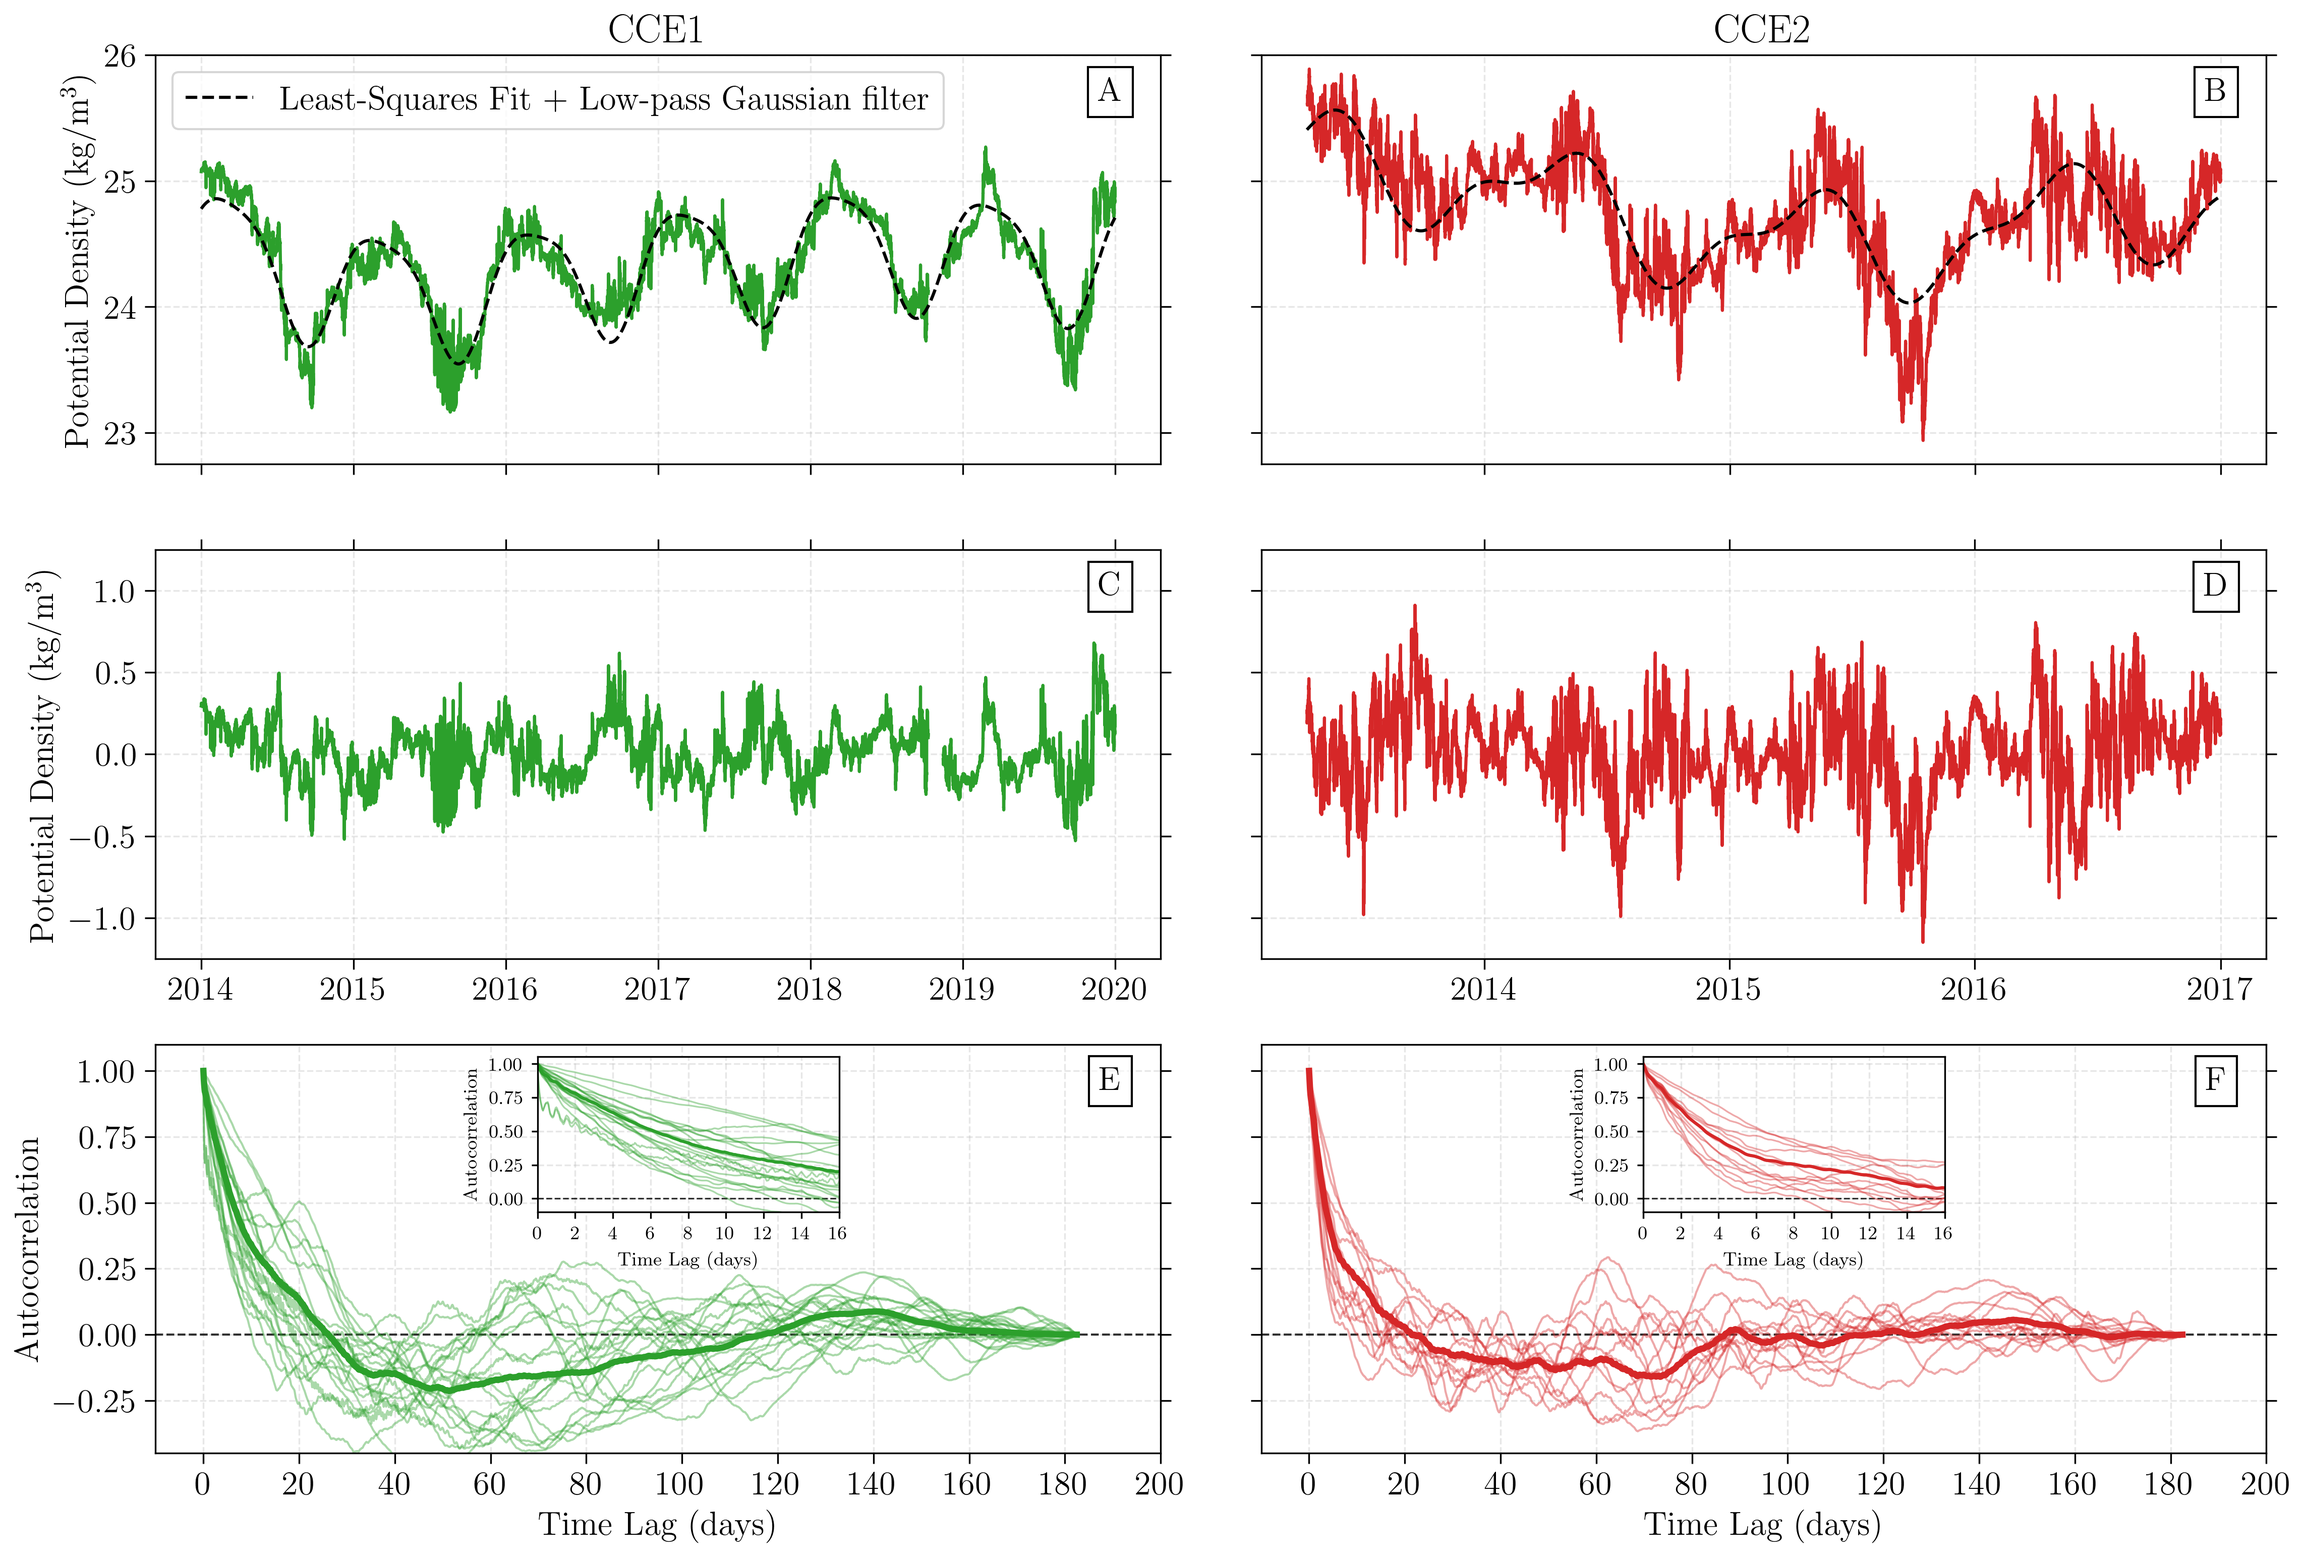
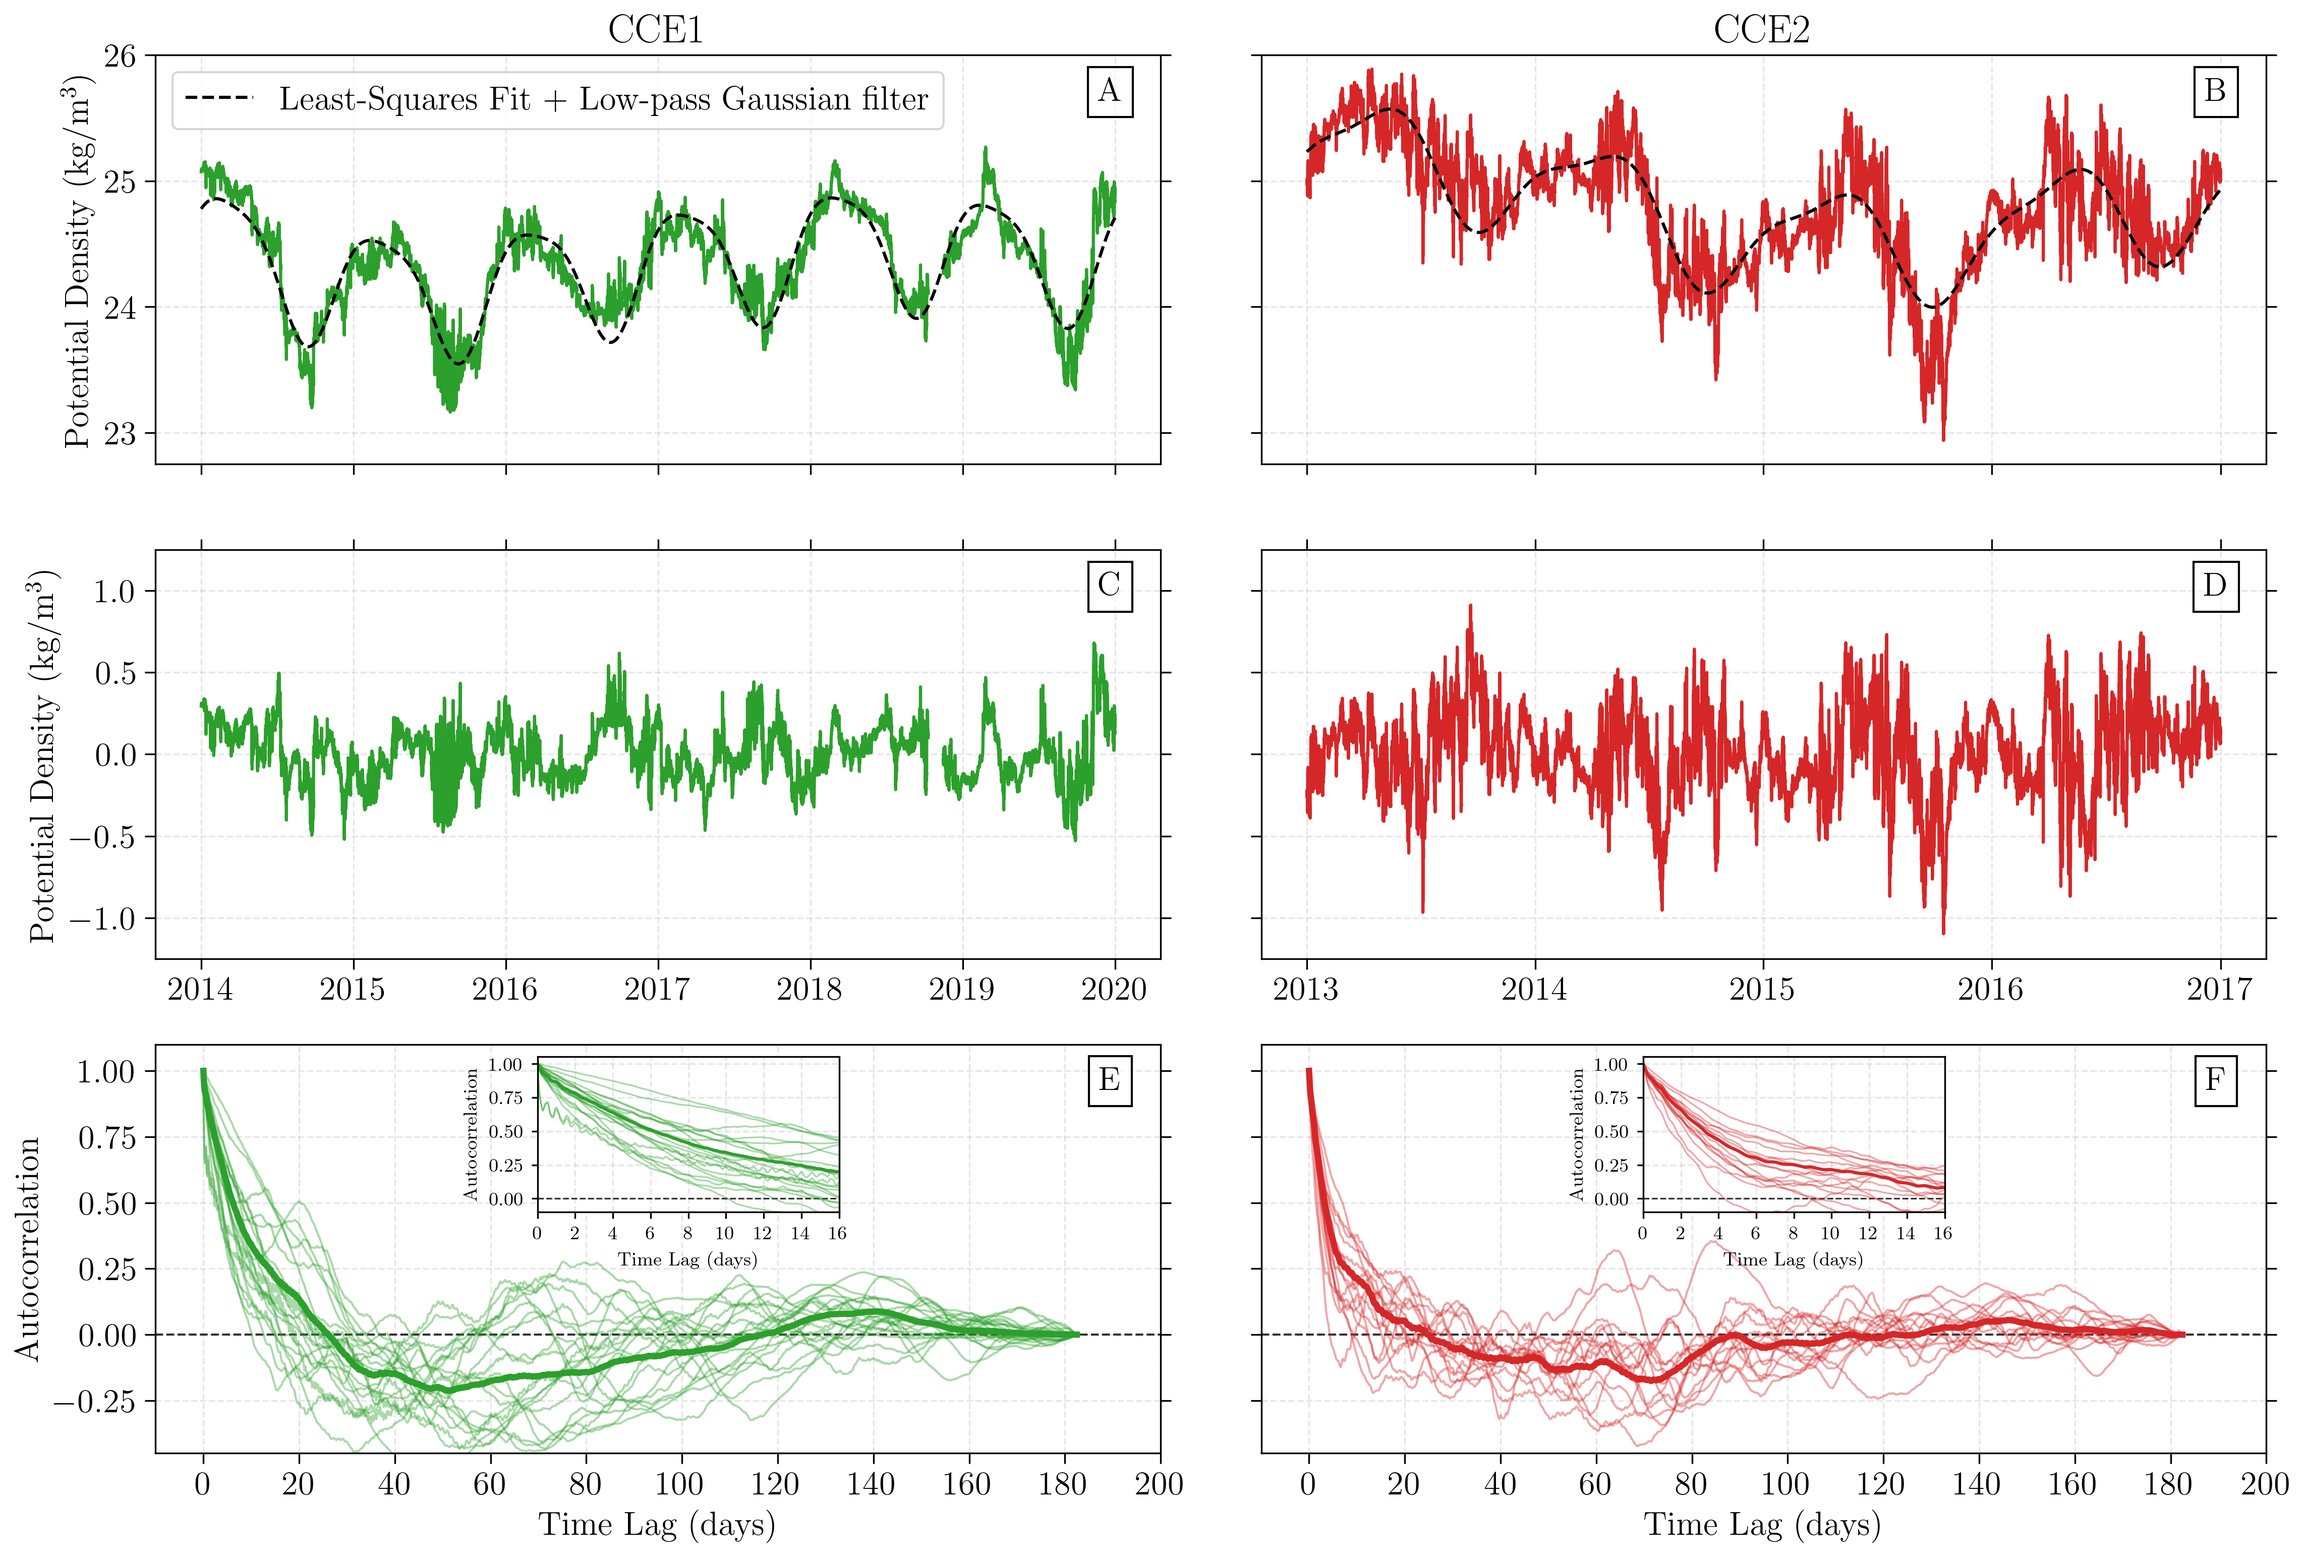
Adding deployment 3 to CCE2 data.

diff --git a/src/figS11.py b/src/figS11.py
@@ -3,7 +3,7 @@
 # =============================================================================
 #
 # Caption:
-#   Decorrelation time scale in the study domain at (a) 0.5, (b) 9.6, (c) 52, (d) 99 meter depth. 
+#   Decorrelation time scale in the study domain at (a) 0.5, (b) 9.66, (c) 52.69, (d) 99.37 meter depth. 
 #   Black contour lines are the ocean topography with 200 and 2000 meter
 #   isobaths highlighted as solid black lines. Decorrelation scales that differ
 #   from the regional spatial medain by less than or equal to one standard error

diff --git a/tools/cce_mooring_analysis_process.py b/tools/cce_mooring_analysis_process.py
@@ -81,7 +81,7 @@ if option_mooring == "cce1":
 
 elif option_mooring == "cce2":
 
-    depl_start = 4
+    depl_start = 3
     depl_end = 8
 
     time_bnds = [
